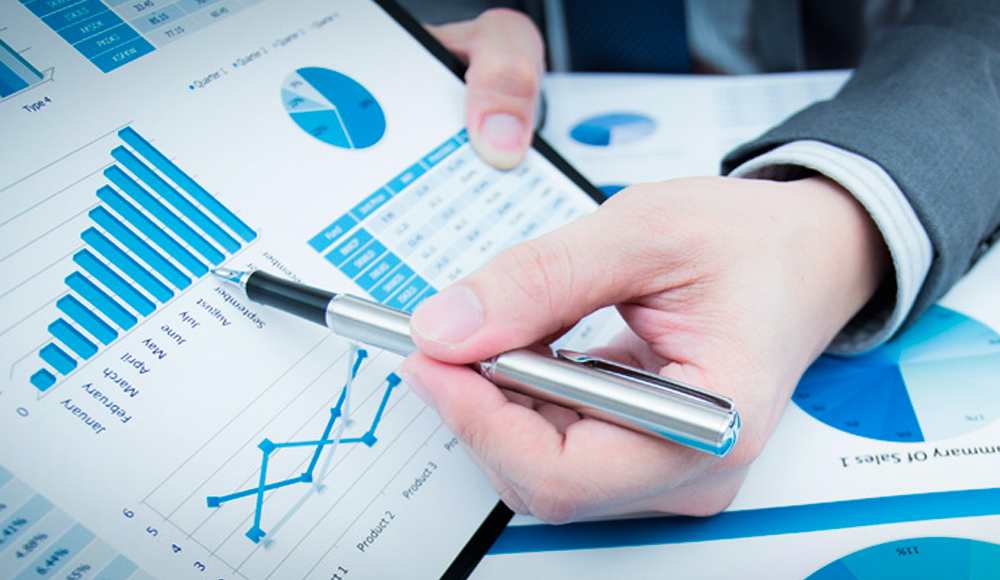
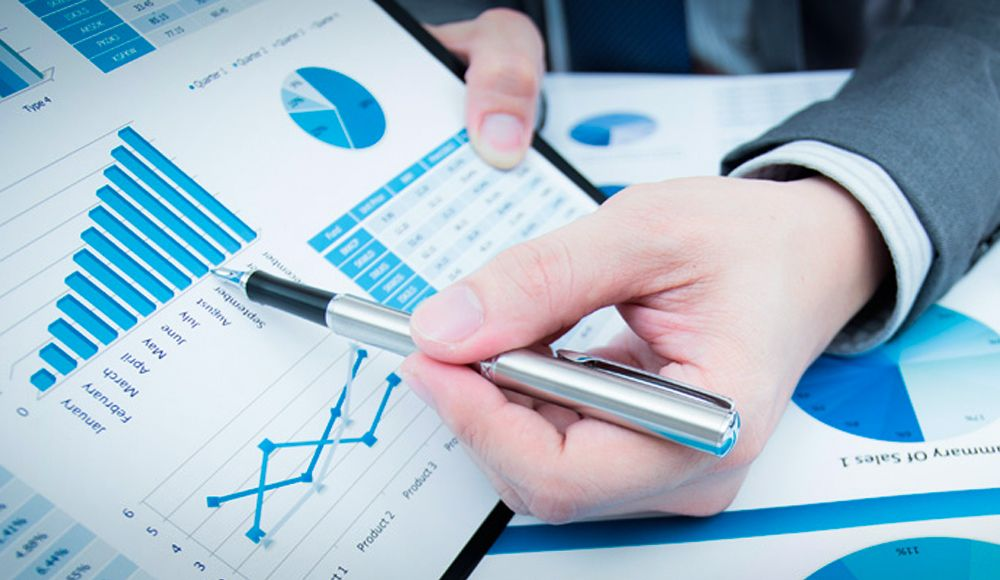
Se corrigieron errores, se agrego gif al momento de presionar editar o guardar un gasto o ingreso, se arreglo el mensaje de error para evitar que ingrese al home, se achico el tamano de las imagenes para reducir el tiempo de carga, se coloco el menu sobre el gif de carga. Se corrigio el error que pe

diff --git a/css/home.css b/css/home.css
@@ -33,7 +33,7 @@ body,html{
         width: 200px;
         height: 100%;
         position: fixed;
-        z-index: 999;
+        z-index: 1002;
         margin-left: -160px;
         float: left;
         margin-bottom: 0px;
@@ -340,7 +340,7 @@ body,html{
 .modal-loading {
     display:    block;
     position:   fixed;
-    z-index:    1000;
+    z-index:    998;
     top:        0;
     left:       0;
     height:     100%;
@@ -362,4 +362,21 @@ body.loading {
    modal element will be visible */
 body.loading .modal {
     display: block;
+}
+
+/*-------------ERROR --------------------*/
+
+.error-arrow{
+  font-size:30px;
+  display: block;
+  margin-top: 30px;
+}
+
+.error-arrow> a{
+  text-decoration: none;
+}
+
+.panel-error{
+  display: block !important;
+  float: none;
 }

diff --git a/views/estadisticas.view.php b/views/estadisticas.view.php
@@ -2,89 +2,99 @@
 <script type="text/javascript" src="https://www.gstatic.com/charts/loader.js"></script>
 <script type="text/javascript" src="//ajax.googleapis.com/ajax/libs/jquery/1.10.2/jquery.min.js"></script>
 <script type="text/javascript">
-    function drawChart() {
-      var jsonIngresos = $.ajax({
-          url: "jsondata/getJsonIngresos.php",
-          dataType: "json",
-          async: false
-          }).responseText;
+function drawChart() {
+  var loading = $('.modal-loading');
 
-    var jsonGastos = $.ajax({
-        url: "jsondata/getJsonGastos.php",
-        dataType: "json",
-        async: false
-        }).responseText;
+  //Solicitud del json con los datos de la BD
+  var jsonIngresos = $.ajax({
+      url: "jsondata/getJsonIngresos.php",
+      dataType: "json",
+      async: false
+      }).responseText;
 
-    var jsonTipoGastos = $.ajax({
-        url: "jsondata/getJsonTipoGastos.php",
-        dataType: "json",
-        async: false
-        }).responseText;
+  var jsonGastos = $.ajax({
+      url: "jsondata/getJsonGastos.php",
+      dataType: "json",
+      async: false
+      }).responseText;
 
-        var opcionesIngresos = {
-            title: 'Ingresos del año en curso',
-            series: {
-              0: { color: '#6f9654' }
-            }
-          };
+  var jsonTipoGastos = $.ajax({
+      url: "jsondata/getJsonTipoGastos.php",
+      dataType: "json",
+      async: false
+      }).responseText;
 
-          var opcionesGastos = {
-              title: 'Gastos del año en curso',
-              series: {
-                0: { color: '#c9302c' }
-              }
-            };
+  //Opciones de estilo para cada grafico
+  var opcionesIngresos = {
+      title: 'Ingresos del año en curso',
+      series: {
+        0: { color: '#6f9654' }
+      }
+    };
 
-            var opcionesTipoGastos = {
-                title: 'Gastos del mes en curso',
-                is3D: true
-              };
+  var opcionesGastos = {
+      title: 'Gastos del año en curso',
+      series: {
+        0: { color: '#c9302c' }
+      }
+    };
 
-        var datosIngresos = new google.visualization.DataTable(jsonIngresos);
-        var datosGastos = new google.visualization.DataTable(jsonGastos);
-        var datosTipoGastos = new google.visualization.DataTable(jsonTipoGastos);
+  var opcionesTipoGastos = {
+      title: 'Gastos del mes en curso',
+      is3D: true
+    };
 
-      // Instantiate and draw our chart, passing in some options.
-      var chart_ingresos = new google.visualization.LineChart(document.getElementById('chart_ingresos'));
-      var chart_gastos = new google.visualization.LineChart(document.getElementById('chart_gastos'));
-      var chart_tipo_gasto = new google.visualization.PieChart(document.getElementById('chart_tipo_gasto'));
+  /*Apartir de los datos obtenidos de la BD y con el JSON que regreso la
+  Solicitud AJAX creamos un DataTable,esto es lo que va a interpretar
+  la api google para dibujar el grafico */
+  var datosIngresos = new google.visualization.DataTable(jsonIngresos);
+  var datosGastos = new google.visualization.DataTable(jsonGastos);
+  var datosTipoGastos = new google.visualization.DataTable(jsonTipoGastos);
 
-      chart_ingresos.draw(datosIngresos,opcionesIngresos);
-      chart_gastos.draw(datosGastos,opcionesGastos);
-      chart_tipo_gasto.draw(datosTipoGastos,opcionesTipoGastos);
-    }
+  // Instanciamos y dibujamos los graficos
+  var chart_ingresos = new google.visualization.LineChart(document.getElementById('chart_ingresos'));
+  var chart_gastos = new google.visualization.LineChart(document.getElementById('chart_gastos'));
+  var chart_tipo_gasto = new google.visualization.PieChart(document.getElementById('chart_tipo_gasto'));
 
+  chart_ingresos.draw(datosIngresos,opcionesIngresos);
+  chart_gastos.draw(datosGastos,opcionesGastos);
+  chart_tipo_gasto.draw(datosTipoGastos,opcionesTipoGastos);
+
+  //Ocultar modal que muestra el gif "Cargando"
+  $(loading).css('display','none');
+}
 </script>
+<!-- Modal para mostrar gif de 'Cargando' -->
 <div class="modal-loading"></div>
+
+<!-- Contenido principal -->
 <div class="container">
   <h1 class='text-center'>Estadisticas</h1>
-<div class="panel panel-estadisticas">
-  <div id="chart_ingresos" ></div>
-</div>
-<div class="panel panel-estadisticas">
-  <div id="chart_gastos" ></div>
-</div>
 
-<div class="panel panel-estadisticas">
-  <div id="chart_tipo_gasto" ></div>
+  <!-- Charts para mostrar los datos -->
+  <div class="panel panel-estadisticas">
+    <div id="chart_ingresos" ></div>
+  </div>
+  <div class="panel panel-estadisticas">
+    <div id="chart_gastos" ></div>
+  </div>
+  <div class="panel panel-estadisticas">
+    <div id="chart_tipo_gasto" ></div>
+  </div>
 </div>
-</div>
-
 
 <?php require 'bottomlayout.view.php';?>
+
 <script type="text/javascript">
-
-
 $('document').ready(function(){
-    var loading = $('.modal-loading');
+    /*Al terminar de cargar la pagina cargar los paquetes de google
+    y dibujar los graficos*/
     google.charts.load('current', {'packages':['corechart']});
     google.charts.setOnLoadCallback(drawChart);
-    $(loading).css('display','none');
-
+    //Cuando se redimensiona la ventana se vuelve a dibujar el grafico
+    //Asi se adapta a distintos tamanos el chart
     $(window).resize(function(){
         drawChart();
       });
   });
-
-
 </script>

diff --git a/views/nuevoingresogasto.view.php b/views/nuevoingresogasto.view.php
@@ -1,4 +1,6 @@
 <?php require 'headlayout.view.php'; ?>
+<!-- Modal que mostrara gif de carga -->
+<div class="modal-loading"></div>
 <div class="container">
   <div class="row">
     <div class="col-sm-5 col-sm-offset-4">
@@ -10,6 +12,8 @@
           <div class="panel panel-gasto">
           <h1 class='text-center'>Nuevo Gasto</h1>
         <?php endif; ?>
+
+        <!-- Formulario -->
         <form class='form' action="<?php echo htmlspecialchars($_SERVER['PHP_SELF']).'?tipo='.$nuevo_tipo; ?>" method="post">
           <input type="hidden" value="<?php echo $nuevo_tipo;?>" name='nuevo_tipo'>
           <div class="form-group">
@@ -36,6 +40,8 @@
             <label for="comentario">Comentario :</label>
             <textarea name="comentario" class='form-control' placeholder="Comentario" id='comentario' rows="6"></textarea>
           </div>
+
+          <!-- En caso de tener errores los muestra -->
           <?php if ($errores != ''): ?>
             <div class="alert alert-danger alert-dismissible" role="alert">
             <button type="button" class="close" data-dismiss="alert" aria-label="Close"><span aria-hidden="true">&times;</span></button>
@@ -47,7 +53,7 @@
             <?php if ($nuevo_tipo == 'ingresos'): ?>
                 <input type="submit" name="submit" value="Guardar" class='btn btn-success pull-right'>
             <?php else: ?>
-                <input type="submit" name="submit" value="Guardar" class='btn btn-danger pull-right'>
+                <input type="submit" name="submit" value="Guardar" class='btn btn-danger pull-right' >
             <?php endif; ?>
           </div>
         </form>
@@ -78,8 +84,18 @@
 <?php require 'bottomlayout.view.php'; ?>
 <script type="text/javascript">
   $('document').ready(function(){
+    //Si todos los campos son correctos mostrar modal avisando al usuario
     <?php if($enviado == true):?>
+      //Ocultamos el gif de carga
+      $(loading).css('display','none');
       $("#modal-aviso").modal();
     <?php endif ?>
+    var loading = $('.modal-loading');
+    $(loading).css('display','none');
+
+    //Al hacer click en submit mostrar el gif de carga
+    $("input[name='submit']").click(function(){
+      $(loading).css('display','block');
+    });
   });
 </script>

diff --git a/error.php b/error.php
@@ -1,9 +1,28 @@
-<?php   require 'views/headlayout.view.php'; ?>
-<div class="container">
-  <div class="jumbotron" style='background-color:#f44336;margin-top:5%;'>
-      <h1 class='text-center'>Opps  Parece que algo salio mal :C</h1>
-  </div>
-</div>
+<!-- Esta pagina avisa al usuario que ocurrio algun error -->
+<!DOCTYPE html>
+<html lang='es'>
+  <head>
+    <meta charset="utf-8">
+    <title>Error</title>
+    <meta name="viewport" content="width=device-width, user-scalable=no, initial-scale=1.0, maximum-scale=1.0, minimum-scale=1.0">
+    <link rel="stylesheet" href="bootstrap/css/bootstrap.min.css">
+    <link rel="stylesheet" href="css/font-awesome.min.css">
+    <link rel="stylesheet" href="css/home.css">
+  </head>
+  <body style='background-color:#fff'>
+    <div class="container">
+      <br>
+      <div class="alert alert-danger">
+        <strong>Parece que algo salio mal!</strong> Si te gustaria ayudarme a mejorar la pagina podes enviar un correo a <a href="mailto:luciano.cassettai@gmail.com" >luciano.cassettai@gmail.com</a> y contarme que sucedio antes de que ocurriera el error! Seria de mucha ayuda!
+    </div>
+    <div class="panel-error col-sm-4 col-sm-offset-4  ">
+      <img src="image/homero.png" alt="" class='img-responsive'/>
+    </div>
+    <br>
+    <div class="text-center error-arrow">
+      <a href='#' onclick='window.history.back();'><span class='glyphicon glyphicon-arrow-left'></span> Volver </a>
+    </div>
+    </div>
 
-
-<?php   require 'views/bottomlayout.view.php'; ?>
+  </body>
+</html>

diff --git a/views/singleEdit.view.php b/views/singleEdit.view.php
@@ -92,7 +92,10 @@
 <script type="text/javascript">
   var loading = $('.modal-loading');
   $('document').ready(function(){
+    //Si todos los campos son correctos mostrar modal avisando al usuario
     <?php if($enviado == true):?>
+      //Ocultamos el gif de carga
+      $(loading).css('display','none');
       $("#modal-aviso").modal();
     <?php endif ?>
 
@@ -100,6 +103,11 @@
       $( "#datepicker" ).datepicker();
     });
     $(loading).css('display','none');
+    
+    //Al hacer click en submit mostrar el gif de carga
+    $("input[name='submit']").click(function(){
+      $(loading).css('display','block');
+    });
   });
 </script>
 <script src="javascript/jqueryUI.js"></script>

diff --git a/eliminar.php b/eliminar.php
@@ -2,14 +2,18 @@
   session_start();
   require 'admin/config.php';
   require 'funciones.php';
+  //Verificamos si inicio sesion
   verificarSesion();
 
+  //Intentamos conectarnos a la BD
   $conexion = conectar($bd_conexion);
 
+  //Si la conexion falla enviamos a la pagina de error
   if($conexion == false){
     header('Location:error.php');
   }
 
+  //Recibimos el codigo del movimiento que queremos eliminar y el tipo (ingreso o gasto)
   if(($_SERVER['REQUEST_METHOD'] == 'POST')){
     $codigo = $_POST['codigo'];
     $tipo = $_POST['tipo'];

diff --git a/singleEdit.php b/singleEdit.php
@@ -73,7 +73,14 @@
       $errores = 'Debe ingresar una fecha';
     }
 
-    $categoria = $_POST['categoria'];
+    if(!empty($_POST['categoria'])){
+        $categoria = $_POST['categoria'];
+        if (!is_numeric($categoria)) {
+          $errores = 'La categoria no es correcta';
+        }
+    }else{
+      $errores = 'Debe seleccionar una categoria';
+    }
 
     if($errores == ''){
       if ($tipo == 'ingresos') {

diff --git a/nuevoingresogasto.php b/nuevoingresogasto.php
@@ -46,8 +46,15 @@
       $comentario  = '';
     }
 
+    if(!empty($_POST['categoria'])){
+        $categoria = $_POST['categoria'];
+        if (!is_numeric($categoria)) {
+          $errores = 'La categoria no es correcta';
+        }
+    }else{
+      $errores = 'Debe seleccionar una categoria';
+    }
 
-    $categoria = $_POST['categoria'];
     $usuario = $_SESSION['id'];
 
     if($errores == ''){

diff --git a/construccion.php b/construccion.php
@@ -1,3 +1,4 @@
+<!-- Esta pagina se utiliza para avisar a el usuario que aun esta en construccion -->
 <?php require 'views/headlayout.view.php';?>
 <div class="container">
   <div class="row">
@@ -6,5 +7,4 @@
       </div>
   </div>
 </div>
-
 <?php require 'views/bottomlayout.view.php';?>

diff --git a/README.md b/README.md
@@ -5,7 +5,7 @@ Mi nombre es **Luciano** tengo 24 años, soy de Posadas Misiones Argentina y mi 
 #Sobre el proyecto
 
 Finanzas personales es un proyecto personal que surgió a partir de la idea de mantener el control de mis gastos diarios disponibles en todo momento. Anteriormente había utilizado otras herramientas como:  Excel, aplicaciones móviles, etc. Pero no encontraba en ellas el potencial de lo que yo las que yo quería hacer, así que pensé “porque no hacer una?” y así fui indagando más sobre el tema.
-Además de ser el primer sitio web que publico también es el primer sitio hecho con PHP anterior mente trabaje con otras tecnologías (.NET y JAVA) pero quería indagar en el tan popular PHP.
+Además de ser el primer sitio web que publico también es el primer sitio hecho con PHP anteriormente trabaje con otras tecnologías (.NET y JAVA) pero quería indagar en el tan popular PHP.
 
 #Funciones del sitio
 
@@ -15,5 +15,3 @@ Actualmente estoy agregando nuevas funciones a la plataforma,  por el momento po
 Si deseas comunicarte conmigo para sugerir cambios o alguna duda mi correo es **luciano.cassettai@gmail.com**
 
 Gracias por utilizar el sitio!  
-
-
